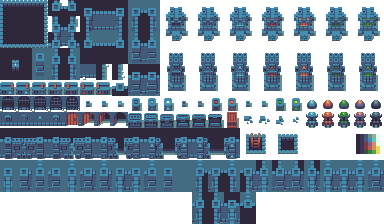
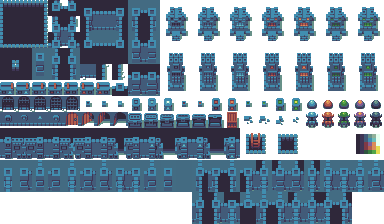
Finishing touch on generator day 6

Changed region(s): [[0.6562, 0.8438, 0.9375, 1.0]]

diff --git a/src/Controllers/ObjectsController.java b/src/Controllers/ObjectsController.java
@@ -80,29 +80,31 @@ public class ObjectsController {
                         if (!MainBaseObject.equals(SecondBaseObject)) {
                             if (!SecondBaseObject.getHitboxes().isEmpty()) {
                                 for (int k = 0; k < MainBaseObject.getHitboxes().size(); k++) {
-                                    Hitbox MainHB = MainBaseObject.getHitboxes().get(k);
-                                    for (int l = 0; l < SecondBaseObject.getHitboxes().size(); l++) {
-                                        Hitbox SecondHB = SecondBaseObject.getHitboxes().get(l);
-                                        
-                                        if (MainBaseObject.getCords().x + MainHB.cords.x < SecondBaseObject.getCords().x + SecondHB.cords.x + SecondHB.width && MainBaseObject.getCords().x + MainHB.cords.x + MainHB.width > SecondBaseObject.getCords().x + SecondHB.cords.x  && MainBaseObject.getCords().y + MainHB.cords.y < SecondBaseObject.getCords().y + SecondHB.cords.y + SecondHB.height && MainBaseObject.getCords().y + MainHB.cords.y + MainHB.height > SecondBaseObject.getCords().y + SecondHB.cords.y) {
-                                            Point aPoint = MainHB.getOverlapped(SecondHB);
-                                            System.out.println(aPoint);
-                                            if (aPoint.x < aPoint.y) {
-                                                if (MainBaseObject.getCords().x + MainHB.cords.x > SecondBaseObject.getCords().x + SecondHB.cords.x) {
-                                                    MainBaseObject.setCords(MainBaseObject.getCords().x + MainHB.cords.x + aPoint.x, MainBaseObject.getCords().y + MainHB.cords.y);
-                                                    MainBaseObject.getPhysics().setVelocity(new Point(0, MainBaseObject.getPhysics().getVelocity().y));
-                                                } else {
-                                                    MainBaseObject.setCords(MainBaseObject.getCords().x + MainHB.cords.x - aPoint.x, MainBaseObject.getCords().y  + MainHB.cords.y);
-                                                    MainBaseObject.getPhysics().setVelocity(new Point(0, MainBaseObject.getPhysics().getVelocity().y));
-                                                }
-                                            } else if (MainBaseObject.getCords().y + MainHB.cords.y > SecondBaseObject.getCords().y + SecondHB.cords.y) {
-                                                MainBaseObject.setCords(MainBaseObject.getCords().x + MainHB.cords.x, MainBaseObject.getCords().y + MainHB.cords.y + aPoint.y);
-                                                MainBaseObject.getPhysics().setVelocity(new Point(MainBaseObject.getPhysics().getVelocity().x, 0));
-                                            } else {
-                                                MainBaseObject.setCords(MainBaseObject.getCords().x + MainHB.cords.x, MainBaseObject.getCords().y + MainHB.cords.y - aPoint.y);
-                                                MainBaseObject.getPhysics().setVelocity(new Point(MainBaseObject.getPhysics().getVelocity().x, 0));
-                                            }
+                                    if (MainBaseObject.getHitboxes().get(k).isTrigger) {
+                                        Hitbox MainHB = MainBaseObject.getHitboxes().get(k);
+                                        for (int l = 0; l < SecondBaseObject.getHitboxes().size(); l++) {
+                                            Hitbox SecondHB = SecondBaseObject.getHitboxes().get(l);
+                                            if (SecondBaseObject.getHitboxes().get(l).isTrigger) {
+                                                if (MainBaseObject.getCords().x + MainHB.cords.x < SecondBaseObject.getCords().x + SecondHB.cords.x + SecondHB.width && MainBaseObject.getCords().x + MainHB.cords.x + MainHB.width > SecondBaseObject.getCords().x + SecondHB.cords.x && MainBaseObject.getCords().y + MainHB.cords.y < SecondBaseObject.getCords().y + SecondHB.cords.y + SecondHB.height && MainBaseObject.getCords().y + MainHB.cords.y + MainHB.height > SecondBaseObject.getCords().y + SecondHB.cords.y) {
+                                                    Point aPoint = MainHB.getOverlapped(SecondHB);
+                                                    if (aPoint.x < aPoint.y) {
+                                                        if (MainBaseObject.getCords().x + MainHB.cords.x > SecondBaseObject.getCords().x + SecondHB.cords.x) {
+                                                            MainBaseObject.setCords(MainBaseObject.getCords().x + aPoint.x, MainBaseObject.getCords().y);
+                                                            MainBaseObject.getPhysics().setVelocity(new Point(0, MainBaseObject.getPhysics().getVelocity().y));
+                                                        } else {
+                                                            MainBaseObject.setCords(MainBaseObject.getCords().x - aPoint.x, MainBaseObject.getCords().y);
+                                                            MainBaseObject.getPhysics().setVelocity(new Point(0, MainBaseObject.getPhysics().getVelocity().y));
+                                                        }
+                                                    } else if (MainBaseObject.getCords().y + MainHB.cords.y > SecondBaseObject.getCords().y + SecondHB.cords.y) {
+                                                        MainBaseObject.setCords(MainBaseObject.getCords().x, MainBaseObject.getCords().y + aPoint.y);
+                                                        MainBaseObject.getPhysics().setVelocity(new Point(MainBaseObject.getPhysics().getVelocity().x, 0));
+                                                    } else {
+                                                        MainBaseObject.setCords(MainBaseObject.getCords().x, MainBaseObject.getCords().y - aPoint.y);
+                                                        MainBaseObject.getPhysics().setVelocity(new Point(MainBaseObject.getPhysics().getVelocity().x, 0));
+                                                    }
 
+                                                }
+                                            }
                                         }
                                     }
                                 }

diff --git a/src/Objects/Generator.java b/src/Objects/Generator.java
@@ -21,7 +21,7 @@ import java.util.concurrent.Callable;
  */
 public class Generator implements Callable<ArrayList<BaseObject>> {
 
-    int AmountOfTiles = 25;
+    int AmountOfTiles = 30;
     public int maxX = 40;
     public int maxY = 40;
     public TileTypes[][] tileSpots = new TileTypes[maxX][maxY];
@@ -47,13 +47,13 @@ public class Generator implements Callable<ArrayList<BaseObject>> {
             }
             Random rand = new Random();
             int n = rand.nextInt(100) + 1;
-            if (n < 35) {
+            if (n < 25) {
                 Pos = new Point(Pos.x + 1, Pos.y);
 
-            } else if (n < 70) {
+            } else if (n < 50) {
                 Pos = new Point(Pos.x - 1, Pos.y);
 
-            } else if (n < 85) {
+            } else if (n < 75) {
                 Pos = new Point(Pos.x, Pos.y + 1);
 
             } else {
@@ -85,7 +85,7 @@ public class Generator implements Callable<ArrayList<BaseObject>> {
             }
             if (soloHor) {
                 placedTiles.add(new Point(curr.x, curr.y + 1));
-                tileSpots[curr.x][curr.y+1] = TileTypes.FLOOR;
+                tileSpots[curr.x][curr.y + 1] = TileTypes.FLOOR;
             }
         }
         for (int i = 0; i < placedTiles.size(); i++) {
@@ -236,9 +236,6 @@ public class Generator implements Callable<ArrayList<BaseObject>> {
         if (E && SE && S && W) {
             wall = new WallTileLevelOne(Walls.E_SE_S_W);
         }
-        if (N && S && SE && E) {
-            wall = new WallTileLevelOne(Walls.N_S_SE_E);
-        }
         if (E && S && SW && W) {
             wall = new WallTileLevelOne(Walls.E_S_SW_W);
         }
@@ -257,6 +254,18 @@ public class Generator implements Callable<ArrayList<BaseObject>> {
         if (N && S && SW && W) {
             wall = new WallTileLevelOne(Walls.N_S_SW_W);
         }
+        if (N && NE && E && S && W) {
+            wall = new WallTileLevelOne(Walls.N_NE_E_S_W);
+        }
+        if (N && E && SE && S && W) {
+            wall = new WallTileLevelOne(Walls.N_E_SE_S_W);
+        }
+        if (N && E && S && SW && W) {
+            wall = new WallTileLevelOne(Walls.N_E_S_SW_W);
+        }
+        if (N && E && S && W && NW) {
+            wall = new WallTileLevelOne(Walls.N_E_S_W_NW);
+        }
         if (E && SE && S && SW && W) {
             wall = new WallTileLevelOne(Walls.E_SE_S_SW_W);
         }
@@ -273,13 +282,19 @@ public class Generator implements Callable<ArrayList<BaseObject>> {
             wall = new WallTileLevelOne(Walls.N_E_S_SW_W_NW);
         }
         if (N && NE && E && SE && S && W) {
-            wall = new WallTileLevelOne(Walls.N_E_S_SW_W_NW);
+            wall = new WallTileLevelOne(Walls.N_NE_E_SE_S_W);
         }
         if (N && NE && E && S && W && NW) {
             wall = new WallTileLevelOne(Walls.N_NE_E_S_W_NW);
         }
         if (N && E && SE && S && SW && W) {
             wall = new WallTileLevelOne(Walls.N_E_SE_S_SW_W);
+        }
+        if(N && NE && E && S && SW && W){
+            wall = new WallTileLevelOne(Walls.N_NE_E_S_SW_W);
+        }
+        if(N && E && SE && S && W && NW){
+            wall = new WallTileLevelOne(Walls.N_E_SE_S_W_NW);
         }
         if (N && E && SE && S && SW && W && NW) {
             wall = new WallTileLevelOne(Walls.N_E_SE_S_SW_W_NW);
@@ -292,6 +307,9 @@ public class Generator implements Callable<ArrayList<BaseObject>> {
         }
         if (N && NE && E && S && SW && W && NW) {
             wall = new WallTileLevelOne(Walls.N_NE_E_S_SW_W_NW);
+        }
+        if (N && NE && E && SE && S && SW && W && NW) {
+            System.out.println("something went wrong");
         }
 
         return wall;

diff --git a/src/Objects/Tiles/WallTileLevelOne.java b/src/Objects/Tiles/WallTileLevelOne.java
@@ -139,6 +139,25 @@ public class WallTileLevelOne extends BaseObject {
             case N_E_SE_S_SW_W:
                 img = SpriteController.loadSingleSpriteDungeon(240, 192, 16, 32);
                 break;
+            case N_NE_E_S_W:
+                img = SpriteController.loadSingleSpriteDungeon(304, 192, 16, 32);
+                break;
+            case N_E_S_SW_W:
+                img = SpriteController.loadSingleSpriteDungeon(272, 192, 16, 32);
+                break;
+            case N_E_S_W_NW:
+                img = SpriteController.loadSingleSpriteDungeon(288, 192, 16, 32);
+                break;
+            case N_E_SE_S_W:
+                img = SpriteController.loadSingleSpriteDungeon(256, 192, 16, 32);
+                break;
+            case N_NE_E_S_SW_W:
+                img = SpriteController.loadSingleSpriteDungeon(336, 192, 16, 32);
+                break;
+            case N_E_SE_S_W_NW:
+                img = SpriteController.loadSingleSpriteDungeon(320, 192, 16, 32);
+                break;
+
         }
     }
 }

diff --git a/src/Components/Hitbox.java b/src/Components/Hitbox.java
@@ -14,25 +14,28 @@ import java.util.ArrayList;
  */
 public class Hitbox {
 
+    public boolean isTrigger = false;
     public int width;
     public int height;
     public Point cords;
     BaseObject body;
     ArrayList<Point> area = new ArrayList<Point>();
 
-    public Hitbox(int width, int height, BaseObject body) {
+    public Hitbox(int width, int height, BaseObject body,boolean isTrigger) {
         this.width = width;
         this.height = height;
         this.body = body;
         this.cords = body.getCords();
+        this.isTrigger = isTrigger;
         setArea();
     }
 
-    public Hitbox(int width, int height, BaseObject body, Point p) {
+    public Hitbox(int width, int height, BaseObject body, Point p, boolean isTrigger) {
         this.width = width;
         this.height = height;
         this.body = body;
         this.cords = p;
+        this.isTrigger = isTrigger;
         setArea();
     }
 

diff --git a/src/Components/BaseObject.java b/src/Components/BaseObject.java
@@ -71,13 +71,13 @@ public class BaseObject implements Plottable {
         return SM;
     }
 
-    public void addHitbox(int width, int height) {
-        Hitbox hb = new Hitbox(height, width, this,new Point(0,0));
+    public void addHitbox(int width, int height, boolean isTrigger) {
+        Hitbox hb = new Hitbox(height, width, this,new Point(0,0), isTrigger);
         hitboxes.add(hb);
     }
     
-    public void addHitbox(int width, int height, Point p) {
-        Hitbox hb = new Hitbox(height, width, this,p);
+    public void addHitbox(int width, int height, Point p, boolean isTrigger) {
+        Hitbox hb = new Hitbox(height, width, this,p,isTrigger);
         hitboxes.add(hb);
     }
 

diff --git a/src/Objects/Wall.java b/src/Objects/Wall.java
@@ -22,8 +22,8 @@ public class Wall extends BaseObject implements Plottable{
     public Wall(){
         addSpriteManager(PlayerStatus.NORTH);
         addPhysics();
-        addHitbox(16, 16, new Point(90,0));
-        addHitbox(16, 16, new Point(15,-40));
+        addHitbox(16, 16, new Point(90,0),false);
+        addHitbox(16, 16, new Point(20,-30),true);
         getPhysics().gravity = false;
         getPhysics().immovable = true;
         getSpriteManager().addSprite(SpriteSheet.DUNGEON, FourDir.RIGHT, 0, 0, 16, 16, 0, 0, 1, PlayerStatus.NORTH);

diff --git a/src/Panels/MainPanel.java b/src/Panels/MainPanel.java
@@ -22,6 +22,7 @@ import sun.java2d.pipe.BufferedOpCodes;
 public class MainPanel extends JPanel {
 
     public GameScene SC = null;
+    Point camera = new Point(0,0);
     int viewX = 800;
     int viewY = 600;
     int WorldX = 1600;
@@ -33,6 +34,10 @@ public class MainPanel extends JPanel {
     int camX = 0;
     int camY = 0;
 
+    public void updateCameraCord(Point p){
+        this.camera = p;
+    }
+    
     public MainPanel(KeyListener KL, GameScene SC) {
         initComponents();
         this.setFocusable(true);

diff --git a/src/Controllers/GameController.java b/src/Controllers/GameController.java
@@ -14,6 +14,7 @@ import Panels.MainPanel;
 import enums.PlayerStatus;
 import enums.Scenes;
 import java.awt.BorderLayout;
+import java.awt.Point;
 import java.awt.event.KeyEvent;
 import java.util.HashSet;
 import javax.swing.JFrame;
@@ -124,6 +125,10 @@ public class GameController {
             currScene.p1.nothing();
         }
 
+    }
+    
+    public static void updateCameraCords(Point p){
+        mp.updateCameraCord(p);
     }
     
     public static GameScene getCurrScene(){

diff --git a/src/enums/Walls.java b/src/enums/Walls.java
@@ -15,7 +15,9 @@ public enum Walls {
     N,S,E,W,N_S,E_W,N_E,E_S,S_W,W_N,
     N_NE_E_W_NW,E_SE_S_SW_W,N_NE_E_SE_S,N_S_SW_W_NW,
     N_E_S_SW_W_NW,N_NE_E_SE_S_W,N_NE_E_S_W_NW,N_E_SE_S_SW_W,
-    N_E_SE_S,E_SE_S_W,N_S_SE_E,E_S_SW_W,N_S_W_NW,N_E_W_NW,N_NE_E_W,N_NE_E_S,N_S_SW_W,
+    N_E_SE_S,E_SE_S_W,E_S_SW_W,N_S_W_NW,N_E_W_NW,N_NE_E_W,N_NE_E_S,N_S_SW_W,
     N_E_S,E_S_W,N_S_W,N_E_W,
+    N_NE_E_S_W,N_E_SE_S_W,N_E_S_SW_W,N_E_S_W_NW,
+    N_NE_E_S_SW_W,N_E_SE_S_W_NW,
     P
 }

diff --git a/src/Objects/MainCharacter.java b/src/Objects/MainCharacter.java
@@ -53,7 +53,7 @@ public class MainCharacter extends BaseObject implements Plottable, PlayerOne {
 
         addPhysics();
         //getPhysics().setAcceleration(new Point(1,1));
-        addHitbox(64, 64);
+        addHitbox(16, 16,true);
         
         getPhysics().gravity = false;
 //        getPhysics().resistenceX = false;

diff --git a/src/Objects/SceneOne.java b/src/Objects/SceneOne.java
@@ -27,7 +27,7 @@ public class SceneOne extends GameScene {
         Hero = new MainCharacter();
         w = new Wall();
         Hero.setCords(50, 270);
-        Hero.addHitbox(20, 20, new Point(200,200));
+        Hero.addHitbox(20, 20, new Point(100,100),false);
         w.setCords(30, 240);
         p1 = Hero;
 
